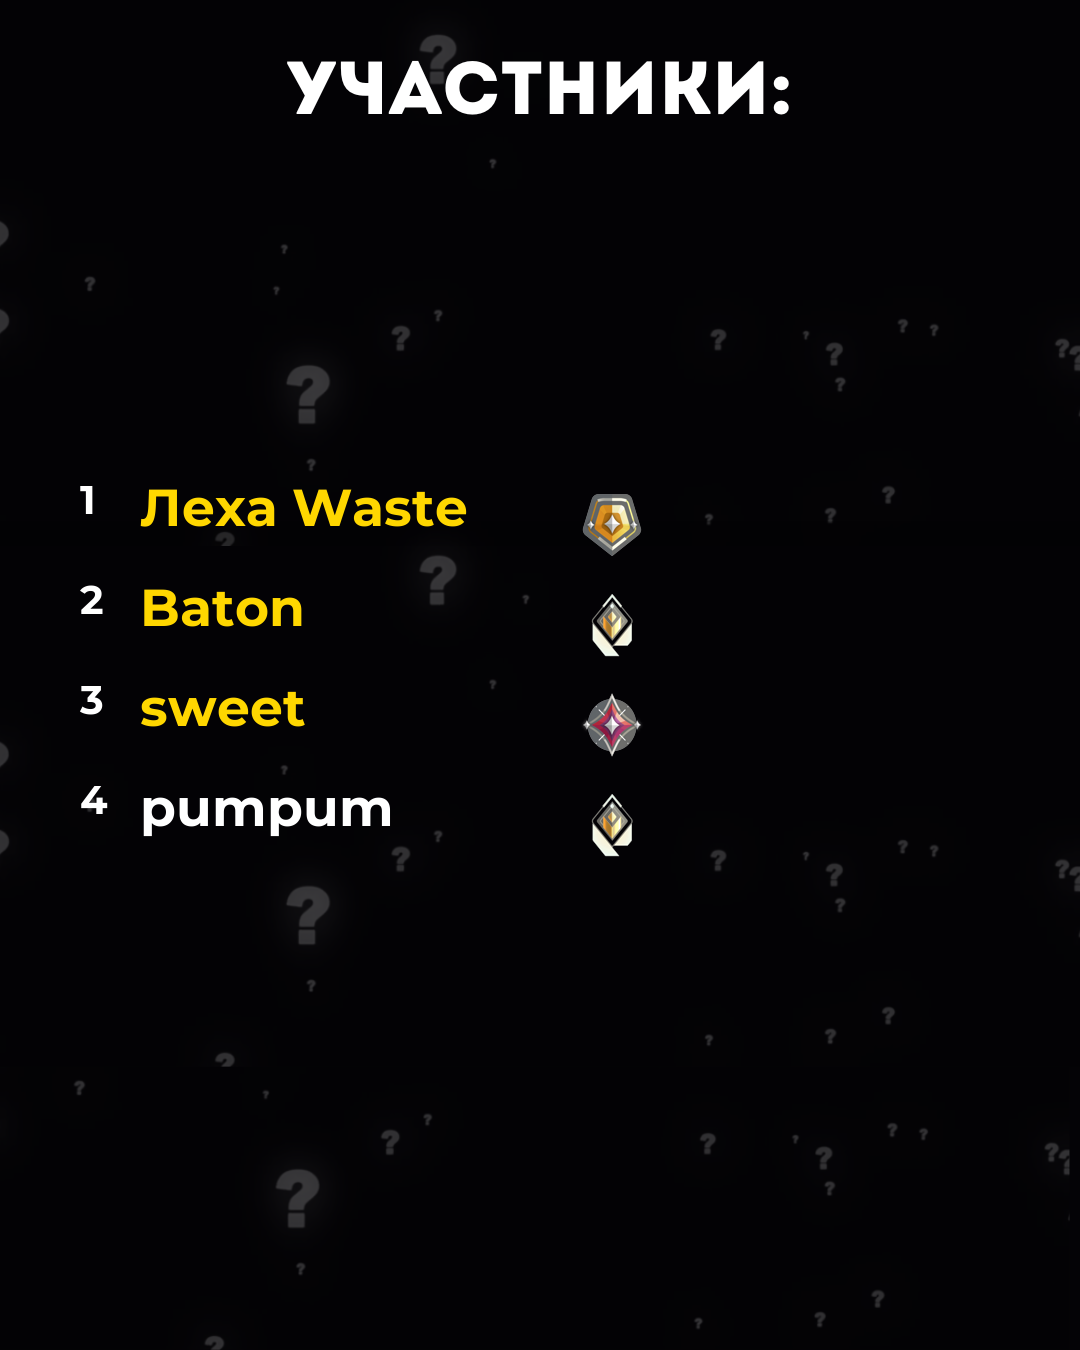
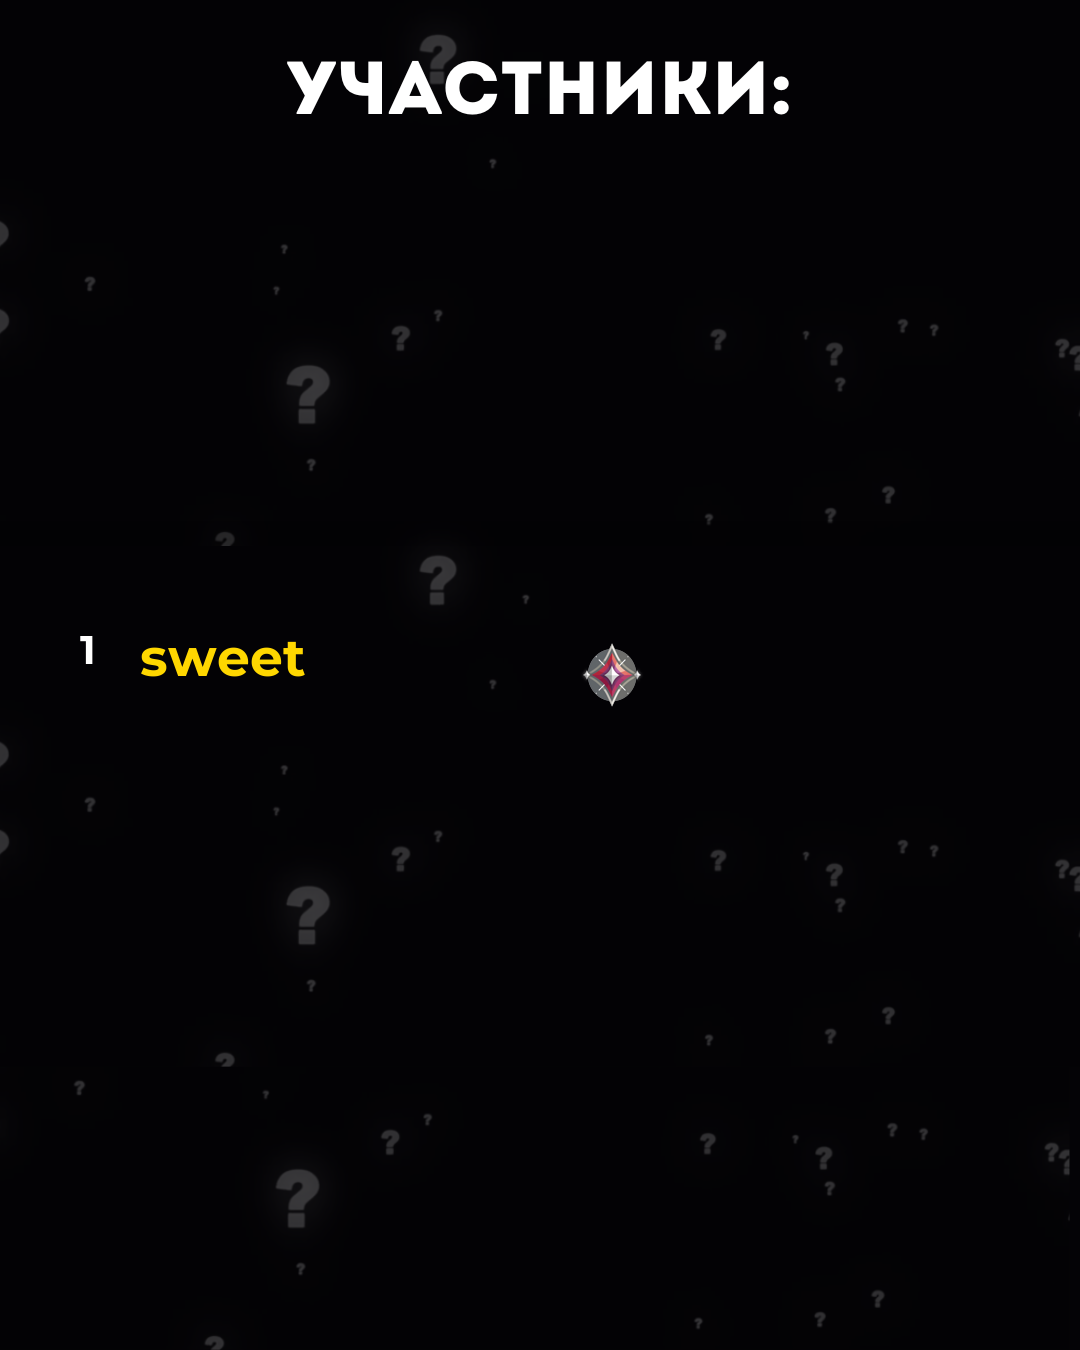
Доработка банов(нужно будет еще проверить) Изменение лидерборда и исправление ошибок

diff --git a/modules/utils/api_client.py b/modules/utils/api_client.py
@@ -5,28 +5,30 @@ import json
 from datetime import datetime
 
 API_BASE_URL = os.getenv("DJANGO_API_URL", "http://127.0.0.1:8000/api")
+DJANGO_API_TOKEN = os.getenv("DJANGO_API_TOKEN")
+
+HEADERS = {
+    "Authorization": f"Token {DJANGO_API_TOKEN}",
+}
+
+# Вспомогательная функция для сессий с токеном
+def get_session():
+    return aiohttp.ClientSession(headers=HEADERS)
 
 # --- Players ---
 
 async def get_player_profile(discord_id: int):
-    async with aiohttp.ClientSession() as session:
+    async with get_session() as session:
         async with session.get(f"{API_BASE_URL}/players/{discord_id}/") as resp:
             if resp.status != 200:
                 logger.warning(f"⚠ Не удалось получить профиль {discord_id}: статус {resp.status}")
                 return {}
 
             try:
-                data = await resp.json()
+                return await resp.json()
             except Exception as e:
                 logger.error(f"❌ Ошибка при разборе JSON профиля {discord_id}: {e}")
                 return {}
-
-            # Дополнительно можно валидировать поля
-            if not isinstance(data, dict):
-                return {}
-
-            return data
-
 
 async def update_player_profile(discord_id: int, username: str = None, rank: str = None, create_if_not_exist: bool = False):
     payload = {
@@ -36,11 +38,8 @@ async def update_player_profile(discord_id: int, username: str = None, rank: str
         "create_if_not_exist": str(create_if_not_exist).lower()
     }
 
-    async with aiohttp.ClientSession() as session:
-        async with session.patch(
-            f"{API_BASE_URL}/players/update_profile/",
-            json=payload
-        ) as resp:
+    async with get_session() as session:
+        async with session.patch(f"{API_BASE_URL}/players/update_profile/", json=payload) as resp:
             logger.warning(f"📤 Ответ от update_profile: статус={resp.status}, тело={await resp.text()}")
             try:
                 return await resp.json()
@@ -48,41 +47,31 @@ async def update_player_profile(discord_id: int, username: str = None, rank: str
                 logger.error(f"❌ Ошибка при разборе JSON: {e}")
                 return {}
 
-
-
-
 async def set_player_wins(discord_id: int, wins: int):
     payload = {"wins": wins}
-    async with aiohttp.ClientSession() as session:
+    async with get_session() as session:
         async with session.post(f"{API_BASE_URL}/players/{discord_id}/set_wins/", json=payload) as resp:
             return await resp.json()
 
-
 async def get_all_players():
-    async with aiohttp.ClientSession() as session:
+    async with get_session() as session:
         async with session.get(f"{API_BASE_URL}/players/") as resp:
             return await resp.json()
 
-
 async def add_win(discord_id: int):
-    async with aiohttp.ClientSession() as session:
+    async with get_session() as session:
         async with session.post(f"{API_BASE_URL}/players/{discord_id}/add_win/") as resp:
             return await resp.json()
 
-
 async def get_top10_players():
-    async with aiohttp.ClientSession() as session:
+    async with get_session() as session:
         async with session.get(f"{API_BASE_URL}/players/top10/") as resp:
-            if resp.status == 200:
-                return await resp.json()
-            else:
-                return []
-
+            return await resp.json() if resp.status == 200 else []
 
 # --- Matches ---
 
 async def create_match(payload: dict):
-    async with aiohttp.ClientSession() as session:
+    async with get_session() as session:
         async with session.post(f"{API_BASE_URL}/matches/", json=payload) as resp:
             text = await resp.text()
             if resp.status != 201:
@@ -95,35 +84,31 @@ async def create_match(payload: dict):
                 logger.error(f"❌ Ошибка при разборе JSON: {e}")
                 return {}
 
-
 async def get_all_matches():
-    async with aiohttp.ClientSession() as session:
+    async with get_session() as session:
         async with session.get(f"{API_BASE_URL}/matches/") as resp:
             return await resp.json()
 
-
 async def save_match_result(match_id: int, winner_team: int):
     payload = {"winner_team": winner_team}
-    async with aiohttp.ClientSession() as session:
+    async with get_session() as session:
         async with session.post(f"{API_BASE_URL}/matches/{match_id}/set_winner/", json=payload) as resp:
             if resp.status != 200:
-                error_text = await resp.text()
-                logger.error(f"❌ Ошибка при сохранении результата матча: {resp.status} - {error_text}")
+                logger.error(f"❌ Ошибка при сохранении результата матча: {resp.status} - {await resp.text()}")
             return await resp.json()
 
-# --- Lobbies (если вернём логику создания лобби через Django позже) ---
+# --- Lobbies ---
 
 async def create_lobby(data: dict):
-    async with aiohttp.ClientSession() as session:
+    async with get_session() as session:
         async with session.post(f"{API_BASE_URL}/lobbies/", json=data) as resp:
             if resp.status != 201:
                 logger.warning(f"⚠ Не удалось создать лобби: {resp.status}")
                 return {}
             return await resp.json()
 
-
 async def update_lobby(lobby_id: int, data: dict):
-    async with aiohttp.ClientSession() as session:
+    async with get_session() as session:
         async with session.patch(f"{API_BASE_URL}/lobbies/{lobby_id}/", json=data) as resp:
             if resp.status not in [200, 204]:
                 logger.warning(f"⚠ Не удалось обновить лобби {lobby_id}: {resp.status}")
@@ -133,14 +118,12 @@ async def update_lobby(lobby_id: int, data: dict):
             except:
                 return {}
 
+# --- Bans ---
 
 async def is_banned(discord_id: int) -> dict:
-    async with aiohttp.ClientSession() as session:
+    async with get_session() as session:
         async with session.get(f"{API_BASE_URL}/bans/is_banned/", params={"discord_id": discord_id}) as resp:
-            if resp.status == 200:
-                return await resp.json()
-            return {"banned": False}
-
+            return await resp.json() if resp.status == 200 else {"banned": False}
 
 async def ban_player(discord_id: int, expires_at: datetime, reason: str, banned_by_id: int = None):
     profile = await get_player_profile(discord_id)
@@ -157,7 +140,7 @@ async def ban_player(discord_id: int, expires_at: datetime, reason: str, banned_
         "banned_by": banned_by_id
     }
 
-    async with aiohttp.ClientSession() as session:
+    async with get_session() as session:
         async with session.post(f"{API_BASE_URL}/bans/", json=payload) as resp:
             if resp.status in [200, 201]:
                 logger.success(f"✅ Бан успешно отправлен для {discord_id}")

diff --git a/modules/commands/rating.py b/modules/commands/rating.py
@@ -1,9 +1,9 @@
-from pathlib import Path
+import os
 import discord
 from discord.ext import commands
 from discord import app_commands
 from modules.utils import api_client
-import os
+from modules.utils.image_generator import generate_leaderboard_image
 
 # 🔐 Чтение ALLOWED_ROLES
 raw_roles = os.getenv("ALLOWED_ROLES", "")
@@ -29,81 +29,36 @@ class Rating(commands.Cog):
         await interaction.response.defer()
 
         data = await api_client.get_top10_players()
-        if not isinstance(data, list):
+        if not isinstance(data, list) or not data:
             await interaction.followup.send("❌ Не удалось загрузить таблицу лидеров.", ephemeral=True)
             return
 
-        # 📦 Генерация Embed и прикрепление баннера
-        embed = await self.build_embed(data)
+        image_path = generate_leaderboard_image(data)
+        file = discord.File(image_path, filename="leaderboard.png")
 
-        banner_path = Path(__file__).resolve().parents[2] / "modules" / "pictures" / "leaderboard.jpg"
-        if not banner_path.exists():
-            print(f"⚠ Баннер не найден по пути: {banner_path}")
-            return await interaction.followup.send("❌ Баннер не найден.", ephemeral=True)
+        view = Top10View()
 
-        banner_file = discord.File(banner_path, filename="leaderboard.jpg")
-        embed.set_image(url="attachment://leaderboard.jpg")
-
-        view = Top10View(self)
-
-        await interaction.followup.send(embed=embed, file=banner_file, view=view)
-
-    async def build_embed(self, data):
-        embed = discord.Embed(
-            title="🏆 Топ-10 игроков по победам",
-            description="",
-            color=discord.Color.orange()
-        )
-
-        medals = ["🥇", "🥈", "🥉"]
-        for i, player in enumerate(data[:3]):
-            username = player.get("username", "—")
-            discord_id = int(player.get("discord_id", 0))
-            wins = player.get("wins", 0)
-
-            name = f"{medals[i]} **{username}**"
-            value = f"<@{discord_id}> — **{wins} побед**"
-            embed.add_field(name=name, value=value, inline=False)
-
-        for player in data[3:]:
-            username = player.get("username", "—")
-            discord_id = int(player.get("discord_id", 0))
-            wins = player.get("wins", 0)
-
-            embed.add_field(
-                name=username,
-                value=f"<@{discord_id}> — {wins} побед",
-                inline=False
-            )
-
-        embed.set_footer(text="🔄 Обновите список, чтобы получить актуальные данные")
-        embed.set_image(url="attachment://leaderboard.jpg")
-        return embed
+        await interaction.followup.send(file=file, view=view)
 
 
 class Top10View(discord.ui.View):
-    def __init__(self, rating_cog):
+    def __init__(self):
         super().__init__(timeout=None)
-        self.rating_cog = rating_cog
 
     @discord.ui.button(label="🔄 Обновить", style=discord.ButtonStyle.secondary)
     async def refresh(self, interaction: discord.Interaction, button: discord.ui.Button):
         await interaction.response.defer()
 
         data = await api_client.get_top10_players()
-        if not isinstance(data, list):
+        if not isinstance(data, list) or not data:
             await interaction.followup.send("❌ Не удалось обновить список лидеров.", ephemeral=True)
             return
 
-        embed = await self.rating_cog.build_embed(data)
+        image_path = generate_leaderboard_image(data)
+        file = discord.File(image_path, filename="leaderboard.png")
 
-        banner_path = Path(__file__).resolve().parents[2] / "modules" / "pictures" / "leaderboard.jpg"
-        if banner_path.exists():
-            banner_file = discord.File(banner_path, filename="leaderboard.jpg")
-            embed.set_image(url="attachment://leaderboard.jpg")
-            await interaction.followup.send(embed=embed, file=banner_file, view=self)
-        else:
-            await interaction.followup.send("❌ Баннер не найден.", ephemeral=True)
+        await interaction.edit_original_response(attachments=[file])
+
 
 async def setup(bot):
     await bot.add_cog(Rating(bot))

diff --git a/modules/lobby/lobby.py b/modules/lobby/lobby.py
@@ -112,11 +112,8 @@ class JoinLobbyButton(View):
 
         image_path = generate_lobby_image(players_data, top_ids=top_ids)
 
-        file = discord.File(image_path, filename="lobby_dynamic.png")
-        self.lobby.image_message = await self.lobby.channel.send(file=file)
-
-        # 🔁 Обновляем изображение в лобби
-        if self.lobby.image_message:
+        with open(image_path, "rb") as f:
+            file = discord.File(f, filename="lobby_dynamic.png")
             try:
                 await self.lobby.image_message.edit(attachments=[file])
             except Exception as e:
@@ -217,19 +214,18 @@ class Lobby:
         )[:3]
         top_ids = [p["id"] for p in top_profiles]
 
-        image_path = generate_lobby_image(players_data, top_ids=top_ids)
+        image_path = await generate_lobby_image(self)
 
-        file = discord.File(image_path, filename="lobby_dynamic.png")
-        await self.image_message.edit(attachments=[file])
-
-        if self.image_message:
-            try:
-                await self.image_message.edit(attachments=[file])
-            except Exception as e:
-                logger.warning(f"⚠ Не удалось обновить embed: {e}")
+        with open(image_path, "rb") as f:
+            file = discord.File(f, filename="lobby_dynamic.png")
+            if self.image_message:
+                try:
+                    await self.image_message.edit(attachments=[file])
+                except Exception as e:
+                    logger.warning(f"⚠ Не удалось обновить embed: {e}")
+                    self.image_message = await self.channel.send(file=file)
+            else:
                 self.image_message = await self.channel.send(file=file)
-        else:
-            self.image_message = await self.channel.send(file=file)
 
         if len(self.members) >= self.max_players and not self.draft_started:
             self.draft_started = True

diff --git a/modules/utils/image_generator.py b/modules/utils/image_generator.py
@@ -219,3 +219,50 @@ def generate_final_match_image(selected_map: str, team_sides: dict[int, str], ca
     output = Path(__file__).resolve().parents[1] / "pictures" / "final_match_dynamic.png"
     base_img.save(output)
     return output
+
+def generate_leaderboard_image(players: list[dict]) -> Path:
+    base_path = Path(__file__).resolve().parents[1] / "pictures" / "leaderboard.png"
+    output_path = Path(__file__).resolve().parents[1] / "pictures" / "leaderboard_dynamic.png"
+    image = Image.open(base_path).convert("RGBA")
+    draw = ImageDraw.Draw(image)
+
+    # Настройки
+    font_path = FONT_PATH
+    font = ImageFont.truetype(str(font_path), 40)
+    icon_size = 54
+    step_y = 90
+    start_y = 180
+    number_x = 70
+    name_x = 150
+    rank_icon_x = 660
+    wins_x = 780
+
+    for idx, player in enumerate(players):
+        y = start_y + idx * step_y
+        username = player.get("username", "—")
+        rank = player.get("rank", "Unranked")
+        wins = player.get("wins", 0)
+        matches = player.get("matches", 1)
+        winrate = int(wins / matches * 100) if matches > 0 else 0
+
+        # Номер
+        draw.text((number_x, y), f"{idx+1}.", font=font, fill="white")
+
+        # Ник
+        draw.text((name_x, y), username, font=font, fill="white")
+
+        # Иконка ранга
+        icon_path = get_icon_path(rank)
+        if icon_path:
+            try:
+                icon = Image.open(icon_path).resize((icon_size, icon_size)).convert("RGBA")
+                image.paste(icon, (rank_icon_x, y), icon)
+            except Exception as e:
+                print(f"⚠ Ошибка иконки ранга: {e}")
+
+        # Победы и винрейт
+        draw.text((wins_x, y), f"{wins}W | {winrate}%", font=font, fill="white")
+
+    image.save(output_path)
+    return output_path
+

diff --git a/core/base/settings.py b/core/base/settings.py
@@ -39,6 +39,7 @@ INSTALLED_APPS = [
     'django.contrib.messages',
     'django.contrib.staticfiles',
     'rest_framework',
+    'rest_framework.authtoken',
     'apps.players',
     'apps.matches',
     'django.contrib.sites',
